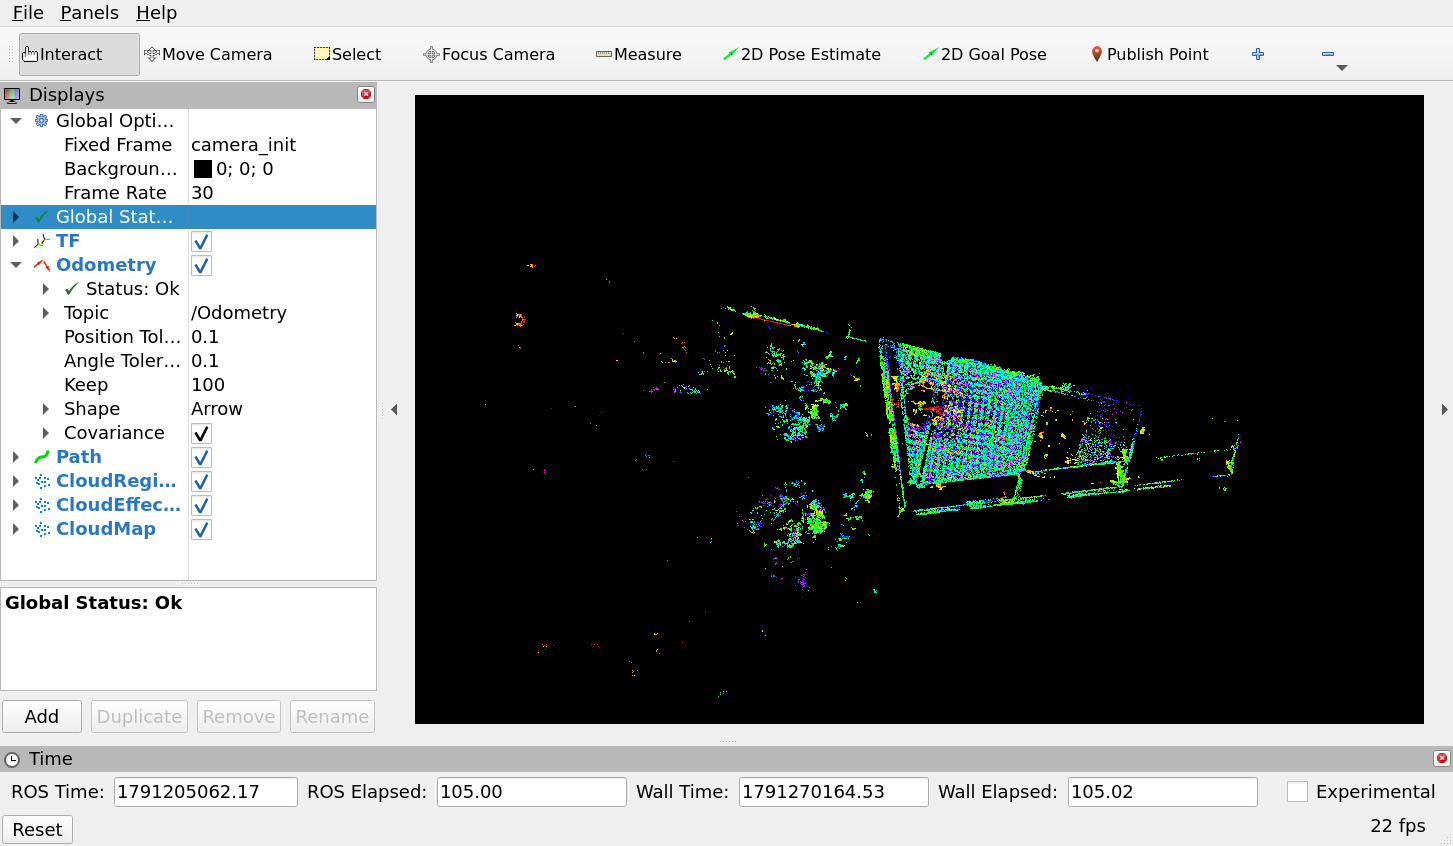
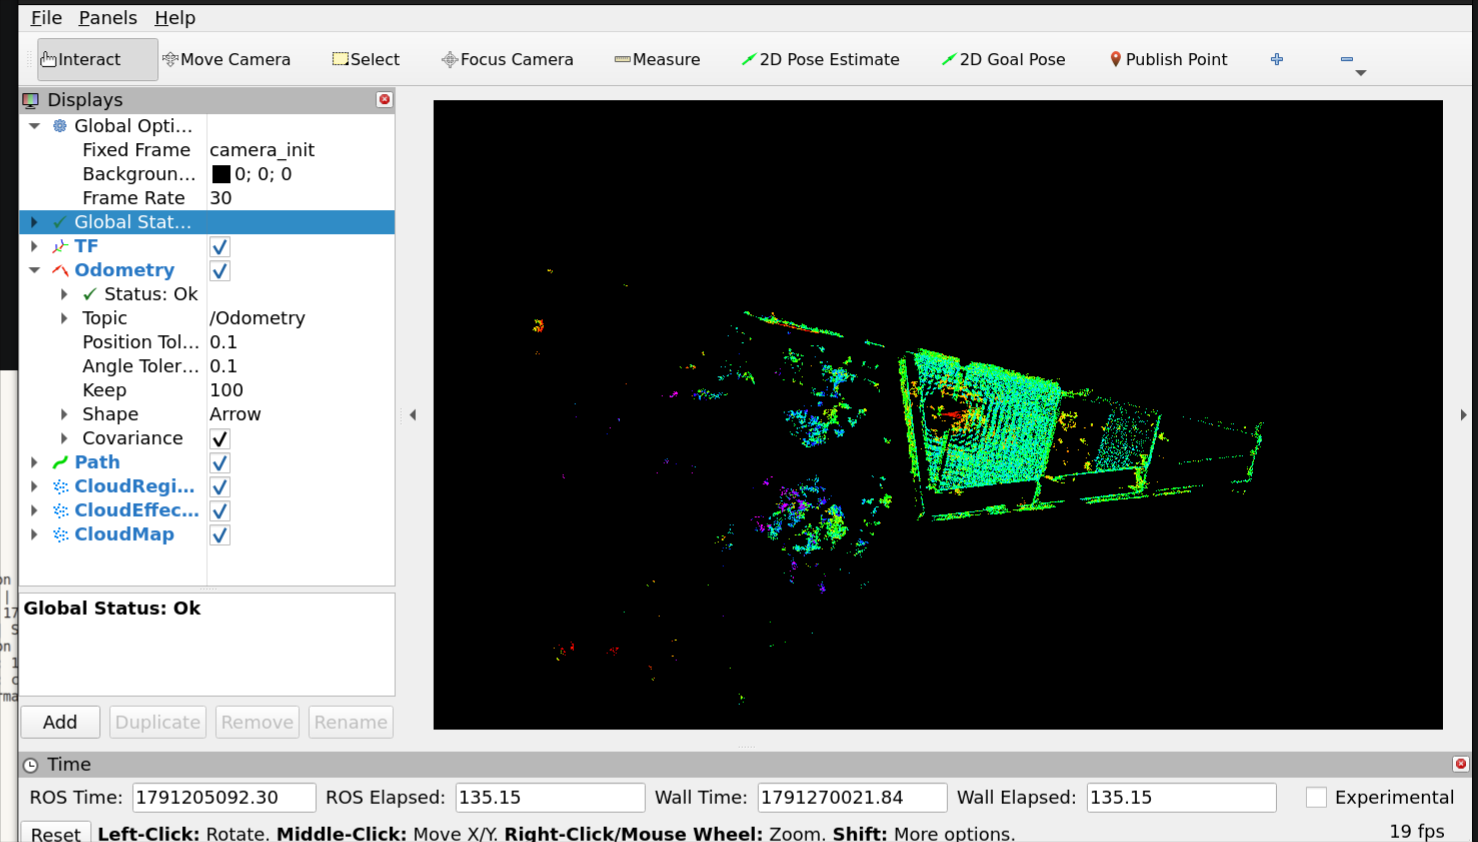
Document ROS2 workflow and add user-captured runtime evidence

Changed region(s): [[0.0, 0.0, 1.0, 1.0], [0.4646, 0.3705, 0.8672, 0.7102], [0.3407, 0.3705, 0.3716, 0.4014]]

diff --git a/README.md b/README.md
@@ -1,5 +1,220 @@
 # 107homework
 
+ROS 2 Humble 下的 MID360 数据录制、FAST-LIO 定位和 rosbag 分析作业。主要作业 Package 是 [`bag_analysis`](bag_analysis)，包含两个 C++ 节点；Livox 驱动和 FAST-LIO 为已有项目，分析节点不实现卡尔曼滤波。
+
+## 系统数据流
+
+在线录制时：MID360 → Livox 驱动 → `/livox/lidar` 和 `/livox/imu` → FAST-LIO → `/Odometry`、配准点云和 TF → rosbag 保存。
+
+离线分析时：rosbag 回放 `/livox/imu` → `imu_analysis`；回放 `/Odometry` → `odom_analysis`；两个节点发布新的 `/analysis/*` Topic，通过终端和 rqt_plot 验证。RViz 显示 bag 中录好的点云和位姿。
+
+本次离线分析直接使用录好的 FAST-LIO 输出，不需要连接雷达或重新运行 FAST-LIO。FAST-LIO 在线运行时，先用 IMU 预测运动，再通过点云与地图的几何残差更新状态，最后发布位姿。
+
+## 主要 Topic
+
+| Topic | 消息类型 | 含义与用途 |
+| --- | --- | --- |
+| `/livox/lidar` | `livox_ros_driver2/msg/CustomMsg` | 原始点云，FAST-LIO 输入，约 10 Hz |
+| `/livox/imu` | `sensor_msgs/msg/Imu` | 原始 IMU，FAST-LIO 与 IMU 分析节点输入，约 200 Hz |
+| `/livox/lidar/pointcloud` | `sensor_msgs/msg/PointCloud2` | 驱动提供的通用点云显示格式 |
+| `/Odometry` | `nav_msgs/msg/Odometry` | FAST-LIO 的位置和朝向，位置差分分析的输入 |
+| `/cloud_registered` | `sensor_msgs/msg/PointCloud2` | `camera_init` 下的配准点云 |
+| `/cloud_registered_body` | `sensor_msgs/msg/PointCloud2` | `body` 下的点云 |
+| `/path` | `nav_msgs/msg/Path` | 位姿轨迹 |
+| `/tf` | `tf2_msgs/msg/TFMessage` | `camera_init → body` 动态变换 |
+| `/clock` | `rosgraph_msgs/msg/Clock` | 回放程序通过 `--clock` 发布的仿真时钟 |
+| `/analysis/accel_norm` | `std_msgs/msg/Float64` | 加速度模长，m/s²，包含重力 |
+| `/analysis/gyro_norm` | `std_msgs/msg/Float64` | 角速度模长，rad/s |
+| `/analysis/speed` | `std_msgs/msg/Float64` | 相邻位置差分得到的速度大小，m/s |
+| `/analysis/vx` | `std_msgs/msg/Float64` | `camera_init` 下的 X 方向速度分量，m/s |
+
+当前驱动 Launch 的 `xfer_format=4` 是项目中的双格式输出设置，同时提供 CustomMsg 和 PointCloud2。本项目 FAST-LIO 发布 `/Odometry` 时填写位姿，没有填写 `twist` 速度字段，所以分析节点通过位置差分计算速度。
+
+## Frame 与 TF
+
+- `livox_frame`：驱动原始点云、IMU 消息中的 Frame 名称。
+- `camera_init`：FAST-LIO 的初始参考坐标系，RViz 的 Fixed Frame；它不代表地理上的正北方向。
+- `body`：FAST-LIO 的机体/IMU 坐标系。
+- FAST-LIO 发布 `camera_init → body`，`/Odometry` 的 `header.frame_id` 为 `camera_init`，`child_frame_id` 为 `body`。
+
+LiDAR 与 IMU 的外参由 [`mid360.yaml`](FAST_LIO/config/mid360.yaml) 配置。配置参数不等于已发布的静态 TF；本作业不假设 TF 树中存在 `body → livox_frame`。验证 TF 使用下文的 `tf2_echo` 命令。
+
+## 自己的两个分析节点
+
+| 节点 | 输入 | 实现 | 输出 |
+| --- | --- | --- | --- |
+| [`imu_analysis`](bag_analysis/src/imu_analysis.cpp) | `/livox/imu` | 分别计算三轴加速度、三轴角速度的向量模长；加速度按参数换算单位 | `accel_norm`、`gyro_norm` |
+| [`odom_analysis`](bag_analysis/src/odom_analysis.cpp) | `/Odometry` | 用相邻消息的位置差除以消息时间差，计算三轴速度、速度大小和 X 分量 | `speed`、`vx` |
+
+IMU 节点默认 `accel_scale=9.80665`，适配本项目 Livox 驱动的 g 单位输入。如果输入已经是 m/s²，应设为 `1.0`。加速度模长保留重力，不能直接当作去重力后的运动加速度。
+
+Odometry 节点使用消息时间戳：`vx = (x₂ - x₁) / Δt`，Y、Z 同理，`speed = sqrt(vx² + vy² + vz²)`。首条消息只保存；时间倒退、时间重复或 Frame 改变时重新保存参考消息，不跨越这些边界做差分。
+
+两个节点提取分析指标，没有重新估计 FAST-LIO 位姿，也不执行滤波或地图匹配。[Launch 文件](bag_analysis/launch/analysis.launch.py) 支持 `use_sim_time`、`imu_topic`、`odom_topic`、`accel_scale` 参数。
+
+## 准备环境与编译
+
+以下命令均在**容器**执行，工作区为 `/ws/ros2`。环境使用 Ubuntu 22.04、ROS 2 Humble，已有 Livox SDK2、驱动、FAST-LIO，以及 RViz、rqt_plot。硬件连接与依赖安装参考仓库中的驱动和 FAST-LIO 文档。
+
+每个运行终端分别加载 ROS 2 与工作区环境。多个终端使用相同的 ROS Domain；本环境为 30。
+
+```bash
+source /opt/ros/humble/setup.bash
+```
+
+```bash
+export ROS_DOMAIN_ID=30
+```
+
+```bash
+source /ws/ros2/install/setup.bash
+```
+
+修改分析代码后，在**容器编译终端**执行：
+
+```bash
+cd /ws/ros2
+```
+
+```bash
+colcon build --packages-select bag_analysis --symlink-install
+```
+
+```bash
+source /ws/ros2/install/setup.bash
+```
+
+## 在线启动与录制
+
+连接 MID360 后，确认 [`MID360_config.json`](livox_ros_driver2_humble/src/config/MID360_config.json) 与实际网络一致。本次配置的雷达 IP 为 `192.168.1.130`，电脑接收地址为 `192.168.1.41`。下面每个终端都先完成环境准备。
+
+**容器终端 1：启动驱动。**
+
+```bash
+ros2 launch livox_ros_driver2 msg_MID360_launch.py
+```
+
+**容器终端 2：启动 FAST-LIO 与 RViz。**
+
+```bash
+ros2 launch fast_lio mapping.launch.py config_file:=mid360.yaml
+```
+
+**容器终端 3：录制。** 示例使用新的输出目录 `mid360_new_session`；本次已录制的数据目录为 `mid360_130_01`。
+
+```bash
+ros2 bag record -o /ws/ros2/bags/mid360_new_session /livox/lidar /livox/imu /livox/lidar/pointcloud /Odometry /cloud_registered /cloud_registered_body /path /tf
+```
+
+录制结束，在录制终端按 `Ctrl+C`，等待保存完成，然后检查结果：
+
+```bash
+ros2 bag info /ws/ros2/bags/mid360_new_session
+```
+
+在线运行分析节点时，在**容器终端 4**执行：
+
+```bash
+ros2 launch bag_analysis analysis.launch.py use_sim_time:=false
+```
+
+在线流程结束后，各运行终端按 `Ctrl+C` 停止程序，再切换到离线回放。
+
+## 离线回放与分析
+
+本次 bag 位于 `/ws/ros2/bags/mid360_130_01`，命令传入包含 `metadata.yaml` 的目录。原始 `.db3` 约 1.9 GiB，保留在本地，仓库包含元数据和运行证据；他人复现需要取得该 bag 或录制包含相同输入话题的数据。
+
+下面每个**容器终端**先完成环境准备。只保留一个发布 `/clock` 的回放程序。
+
+**容器终端 1：启动两个分析节点。**
+
+```bash
+ros2 launch bag_analysis analysis.launch.py use_sim_time:=true
+```
+
+**容器终端 2：回放一次。**
+
+```bash
+ros2 bag play /ws/ros2/bags/mid360_130_01 --clock --delay 3
+```
+
+持续观察时，可以用下面的循环命令替代上面的单次回放命令：
+
+```bash
+ros2 bag play /ws/ros2/bags/mid360_130_01 --clock --loop
+```
+
+**容器终端 3：显示录好的点云与位姿。**
+
+```bash
+rviz2 -d /ws/ros2/src/107/FAST_LIO/rviz/fastlio.rviz --ros-args -p use_sim_time:=true
+```
+
+在各终端按 `Ctrl+C` 停止。循环重新开始时，bag 时间会跳回起点；分析节点通过时间戳检查重新建立差分参考。
+
+## 验证输出与解释结果
+
+保持回放和分析节点运行，在已加载环境的**容器检查终端**执行以下命令。持续输出的命令查看完成后按 `Ctrl+C`，再执行下一条。
+
+```bash
+ros2 topic list
+```
+
+```bash
+ros2 topic hz /livox/lidar
+```
+
+```bash
+ros2 run tf2_ros tf2_echo camera_init body --ros-args -p use_sim_time:=true
+```
+
+```bash
+ros2 node info /imu_analysis
+```
+
+```bash
+ros2 node info /odom_analysis
+```
+
+```bash
+ros2 topic echo /analysis/accel_norm --once
+```
+
+```bash
+ros2 topic echo /analysis/gyro_norm --once
+```
+
+```bash
+ros2 topic echo /analysis/speed --once
+```
+
+```bash
+ros2 topic echo /analysis/vx --once
+```
+
+在另外的已加载环境的**容器绘图终端**执行；各图分开显示，避免混用不同单位。
+
+```bash
+ros2 run rqt_plot rqt_plot /analysis/speed/data /analysis/vx/data
+```
+
+```bash
+ros2 run rqt_plot rqt_plot /analysis/accel_norm/data
+```
+
+```bash
+ros2 run rqt_plot rqt_plot /analysis/gyro_norm/data
+```
+
+验证时关注以下结果：
+
+- `/livox/lidar` 回放频率约 10 Hz；TF 持续输出平移与旋转，RViz 的固定坐标系为 `camera_init`。
+- 加速度模长在平稳段接近 9.8 m/s²，因为包含重力；动态加速度、振动会带来变化。尖峰的具体动作需要结合录制过程判断。
+- 角速度模长非负，转动时通常增大；静止读数也可能因零偏和噪声不为零。
+- `speed` 非负，同一次计算满足 `speed ≥ |vx|`；`vx` 的正负表示相对于 `camera_init` 的 X 方向变化，不直接等于人的左、右。
+- 静止时的差分速度也可能有小幅波动，位置噪声会被差分放大。两次独立的 `echo --once` 取样时间不同，不能据此检验同一次计算的大小关系。
+- rqt_plot 的横轴不能直接当作 bag 从起点回放的秒数；单独的标量输出没有携带原始消息时间戳。
+
 ## ROS 2 与 FAST-LIO 知识图
 
 以下三张图整理了 Livox 驱动、Topic、FAST-LIO 和本项目分析节点之间的关系。
@@ -49,7 +264,7 @@ ros2 bag info /ws/ros2/bags/mid360_130_01
 
 ### 2. RViz 点云与位姿显示
 
-下图采集自实际运行的 RViz 窗口，展示 `mid360_130_01` 回放时的配准点云和位姿显示状态。
+下图为提交者自行截取并提供的 RViz 原图，展示 `mid360_130_01` 回放时的配准点云和位姿显示状态。
 
 ![rosbag 回放时的 RViz：配准点云、camera_init 固定坐标系和 Odometry 正常状态](docs/evidence/rviz/02-rviz-pointcloud.png)
 
@@ -71,4 +286,64 @@ ros2 bag play /ws/ros2/bags/mid360_130_01 --clock --loop
 rviz2 -d /ws/ros2/src/107/FAST_LIO/rviz/fastlio.rviz --ros-args -p use_sim_time:=true
 ```
 
-截图采集于 2026-10-06。TF 关系和分析节点的输出另行展示。
+截图采集于 2026-10-06。以下回放、TF、Topic、节点与曲线图片也均使用提交者提供的截图原文件。
+
+### 3. rosbag 回放
+
+实际回放命令打开了 `mid360_130_01_0.db3`，播放速率为 1。图中的 `READ_ONLY` 表示读取已录数据。
+
+![实际执行 ros2 bag play 的终端画面](docs/evidence/rosbag/02-bag-play.png)
+
+### 4. TF 关系
+
+`tf2_echo camera_init body` 持续输出变换。第一组平移为 `[0.208, 0.084, -0.058]` 米，RPY 约为 `[0.341, -0.184, 9.105]` 度，表示该时刻 `body` 相对于 `camera_init` 的位姿。
+
+![camera_init 到 body 的平移、旋转与变换矩阵](docs/evidence/tf/03-tf.png)
+
+### 5. Topic 列表与回放频率
+
+列表中包含输入、FAST-LIO 输出、TF 和四个分析话题。`topic list` 展示发现的话题名称；下面的频率输出进一步证明 `/livox/lidar` 持续有消息，测得约 10 Hz。
+
+![包含原始数据、位姿和分析结果的 Topic 列表](docs/evidence/topics/04-topics.png)
+
+![livox lidar 话题约 10 Hz 的实际频率](docs/evidence/topics/05-lidar-hz.png)
+
+### 6. IMU 分析节点
+
+节点信息显示 `imu_analysis` 订阅 `/livox/imu`，发布加速度模长与角速度模长。示例输出分别约为 `9.761 m/s²` 和 `0.0399 rad/s`；两次命令是独立取样。
+
+![imu_analysis 的订阅和发布关系](docs/evidence/nodes/06-imu-node.png)
+
+![IMU 分析节点实际发布的加速度与角速度模长](docs/evidence/nodes/07-imu-output.png)
+
+### 7. Odometry 分析节点
+
+节点信息显示 `odom_analysis` 订阅 `/Odometry`，发布 `speed` 和 `vx`。示例输出约为 `0.0282 m/s` 和 `-0.1162 m/s`，来自不同时间的消息，不能用这一对样本检验 `speed ≥ |vx|`。
+
+![odom_analysis 的订阅和发布关系](docs/evidence/nodes/08-odom-node.png)
+
+![Odometry 分析节点实际发布的速度大小与 X 分量](docs/evidence/nodes/09-odom-output.png)
+
+### 8. 分析曲线
+
+速度图中蓝线为 `speed`，保持非负；红线为 `vx`，包含正负变化。位置差分中的小幅波动可能包含真实微动和定位误差。
+
+![位置差分速度大小和 X 方向分量随绘图时间变化](docs/evidence/curves/10-odom-curves.png)
+
+加速度模长图的平稳段约为 `9.8 m/s²`，后面出现更明显的变化和尖峰；模长包含重力，不能把整条曲线解释为纯运动加速度。
+
+![加速度模长的平稳段、波动与尖峰](docs/evidence/curves/11-imu-accel-curve.png)
+
+角速度模长图前段约为 `0.05 rad/s`，后面峰值更明显，表示测得的转动幅度变化。模长没有保留旋转方向。
+
+![角速度模长随绘图时间变化](docs/evidence/curves/12-imu-gyro-curve.png)
+
+这些曲线使用绘图工具的时间轴，不据此标注原始录制过程中的具体动作时刻。仓库保存了[截图文件与 SHA-256 清单](docs/evidence/user-screenshots.json)，用于核对提交者提供的原图。
+
+## AI 使用情况与代码来源
+
+本项目使用 AI 辅助理解 ROS 2 Topic、TF、FAST-LIO 与 IMU 处理流程，以及分析节点的代码编写、调整、调试和 README 整理。上面的三张知识图由 AI 生成，用于解释概念，不作为运行证据。
+
+MID360 数据来自实际录制；运行证据中的终端与 RViz 图片来自实际程序窗口。提交者自行操作、检查节点输出并采集 TF、Topic 与曲线截图。单张截图只能证明所展示的运行结果，不能代替速度精度的参考真值评估。
+
+`FAST_LIO` 和 `livox_ros_driver2_humble` 是引入的已有实现，保留各自源代码与许可证；本作业重点展示 `bag_analysis` 的两个分析节点及其验证流程。仓库中的 `sensor_analysis`、`bag_tools` 为补充代码，本 README 的复现步骤使用 `bag_analysis`。
